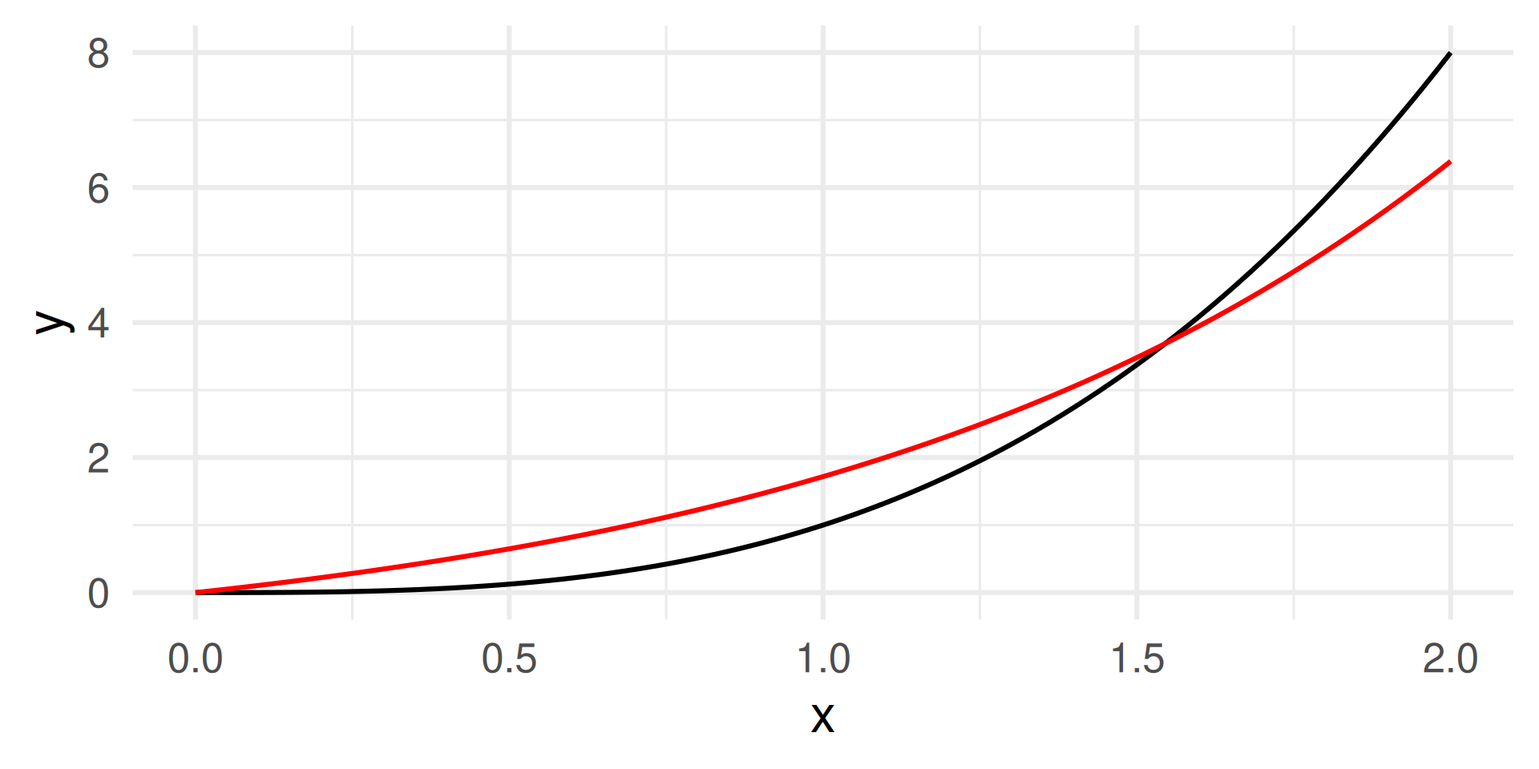
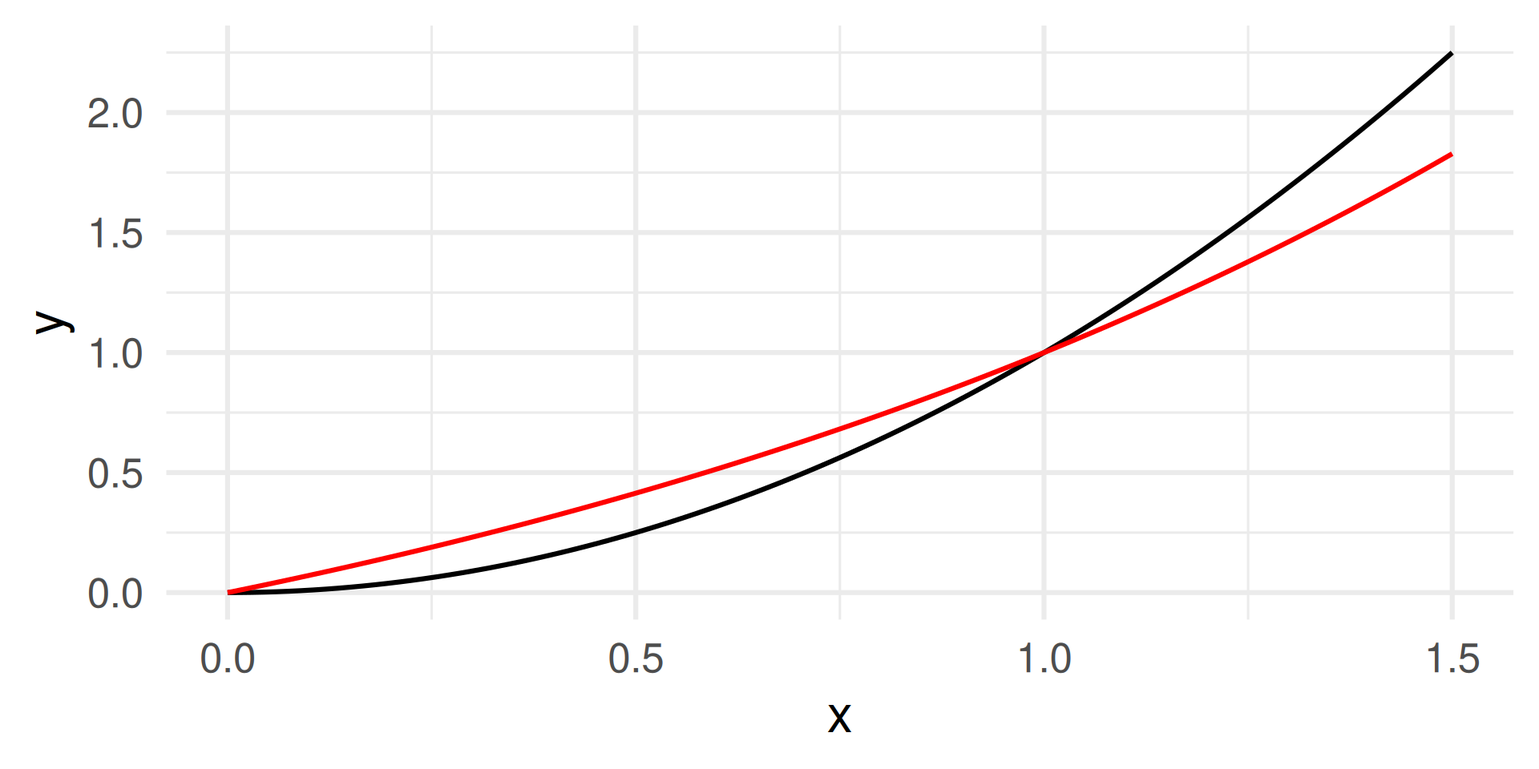
Built site for gh-pages

diff --git a/lectures/W03.html b/lectures/W03.html
@@ -489,7 +489,7 @@
   };
 
   // Store cell data
-  globalThis.qwebrCellDetails = [{"code":"","id":1,"options":{"autorun":"false","classes":"","comment":"","context":"interactive","dpi":72,"editor-font-scale":"0.5","editor-max-height":"","editor-quick-suggestions":"false","editor-word-wrap":"true","fig-cap":"","fig-height":5,"fig-width":7,"label":"unnamed-chunk-1","message":"true","out-height":"","out-width":"700px","output":"true","read-only":"false","results":"markup","warning":"true"}}];
+  globalThis.qwebrCellDetails = [{"code":"","id":1,"options":{"autorun":"false","classes":"","comment":"","context":"interactive","dpi":72,"editor-font-scale":"0.5","editor-max-height":"","editor-quick-suggestions":"false","editor-word-wrap":"true","fig-cap":"","fig-height":5,"fig-width":7,"label":"unnamed-chunk-1","message":"true","out-height":"","out-width":"700px","output":"true","read-only":"false","results":"markup","warning":"true"}},{"code":"Sys.Date() - as.Date(\"1997-01-01\")","id":2,"options":{"autorun":"false","classes":"","comment":"","context":"interactive","dpi":72,"editor-font-scale":"0.5","editor-max-height":"","editor-quick-suggestions":"false","editor-word-wrap":"true","fig-cap":"","fig-height":5,"fig-width":7,"label":"unnamed-chunk-2","message":"true","out-height":"","out-width":"700px","output":"true","read-only":"false","results":"markup","warning":"true"}}];
 
   </script>
   <script type="module">
@@ -2323,9 +2323,11 @@ date  (1): reservation_status_date
 <li>Observations: Each row represents a hotel booking</li>
 </ul>
 </section>
-<section id="first-look-on-data" class="slide level2">
+<section id="first-look-on-data" class="slide level2 smaller">
 <h2>First look on data</h2>
 <p>Type the name of the dataframe</p>
+<div class="columns">
+<div class="column" style="width:70%;">
 <div class="cell">
 <div class="sourceCode cell-code" id="cb7"><pre class="sourceCode numberSource r number-lines code-with-copy"><code class="sourceCode r"><span id="cb7-1"><a></a>hotels</span></code><button title="Copy to Clipboard" class="code-copy-button"><i class="bi"></i></button></pre></div>
 <div class="cell-output cell-output-stdout">
@@ -2351,8 +2353,15 @@ date  (1): reservation_status_date
 #   previous_cancellations &lt;int&gt;, previous_bookings_not_canceled &lt;int&gt;, …</code></pre>
 </div>
 </div>
+</div><div class="column fragment" style="width:30%;">
+<ul>
+<li>Look are the number of rows and columns</li>
+<li>Look at the column names, types, and first entries for the first columns</li>
+<li>Notice how many more columns are there and decide what to look for next</li>
+</ul>
+</div></div>
 </section>
-<section id="look-on-variable-names" class="slide level2">
+<section id="look-on-variable-names" class="slide level2 smaller">
 <h2>Look on variable names</h2>
 <div class="cell">
 <div class="sourceCode cell-code" id="cb9"><pre class="sourceCode numberSource r number-lines code-with-copy"><code class="sourceCode r"><span id="cb9-1"><a></a><span class="fu">names</span>(hotels)</span></code><button title="Copy to Clipboard" class="code-copy-button"><i class="bi"></i></button></pre></div>
@@ -2375,6 +2384,7 @@ date  (1): reservation_status_date
 [31] "reservation_status"             "reservation_status_date"       </code></pre>
 </div>
 </div>
+<p>This gives you a vector of column names.</p>
 </section>
 <section id="second-look-with-glimpse" class="slide level2 smaller">
 <h2>Second look with <code>glimpse</code></h2>
@@ -2417,13 +2427,15 @@ $ reservation_status             &lt;chr&gt; "Check-Out", "Check-Out", "Check-Ou
 $ reservation_status_date        &lt;date&gt; 2015-07-01, 2015-07-01, 2015-07-02, 20…</code></pre>
 </div>
 </div>
-<p>Now, comes the data wrangling, transformation, …</p>
+<ul>
+<li>Showing you all variables listed including data type and the first entries.</li>
+</ul>
 </section></section>
 <section>
 <section id="data-wrangling" class="title-slide slide level1 center">
 <h1>Data Wrangling</h1>
 <p>Wrangling = Import + Tidy + Transform (first iteration)</p>
-<p><img data-src="img/data-science-explore.png" height="250"></p>
+<p><img data-src="img/data-science-wrangle.png" height="250"></p>
 </section>
 <section id="grammar-of-data-wrangling" class="slide level2 smaller">
 <h2>Grammar of Data Wrangling</h2>
@@ -3307,7 +3319,7 @@ delivers the same. (Spot the tiny difference!)</p>
 </div>
 </div>
 </section>
-<section id="reminder-indexing-and-vectorized-thinking" class="slide level2">
+<section id="reminder-indexing-and-vectorized-thinking" class="slide level2 smaller">
 <h2>Reminder: Indexing and vectorized thinking</h2>
 <div class="cell">
 <div class="sourceCode cell-code" id="cb83"><pre class="sourceCode numberSource r number-lines code-with-copy"><code class="sourceCode r"><span id="cb83-1"><a></a>x <span class="ot">&lt;-</span> <span class="fu">set_names</span>(<span class="dv">1</span><span class="sc">:</span><span class="dv">10</span>, LETTERS[<span class="dv">1</span><span class="sc">:</span><span class="dv">10</span>])</span>
@@ -3344,8 +3356,7 @@ delivers the same. (Spot the tiny difference!)</p>
 </div>
 <div class="fragment">
 <p>Mixing negative and positive numbers does not work!</p>
-<pre><code>R
-x[c(-3, 1)] # Will throw an error</code></pre>
+<div class="sourceCode" id="cb89"><pre class="sourceCode numberSource r number-lines code-with-copy"><code class="sourceCode r"><span id="cb89-1"><a></a>x[<span class="fu">c</span>(<span class="sc">-</span><span class="dv">3</span>, <span class="dv">1</span>)] <span class="co"># Will throw an error</span></span></code><button title="Copy to Clipboard" class="code-copy-button"><i class="bi"></i></button></pre></div>
 </div>
 </section>
 <section id="r-objects-can-have-attributes" class="slide level2 smaller">
@@ -3540,7 +3551,7 @@ $names
 </section>
 <section id="factors" class="slide level2 smaller">
 <h2>Factors</h2>
-<p>R uses factors to handle categorical variables, variables that have a fixed and known set of possible values</p>
+<p>R uses factors to handle <strong>categorical</strong> variables</p>
 <div class="cell">
 <div class="sourceCode cell-code" id="cb98"><pre class="sourceCode numberSource r number-lines code-with-copy"><code class="sourceCode r"><span id="cb98-1"><a></a>x <span class="ot">&lt;-</span> <span class="fu">factor</span>(<span class="fu">c</span>(<span class="st">"BS"</span>, <span class="st">"MS"</span>, <span class="st">"PhD"</span>, <span class="st">"MS"</span>, <span class="st">"BS"</span>, <span class="st">"BS"</span>))</span>
 <span id="cb98-2"><a></a>x</span></code><button title="Copy to Clipboard" class="code-copy-button"><i class="bi"></i></button></pre></div>
@@ -3573,7 +3584,7 @@ $class
 </div>
 </div>
 <div class="fragment">
-<p>The class factor makes R print the level of each element of the vector instead of the underlying integer.</p>
+<p>The <code>$class</code> <code>"factor"</code> makes R print the level of each element of the vector instead of the underlying integer!</p>
 </div>
 </section>
 <section id="factors-for-data-visualization" class="slide level2 smaller">
@@ -3642,14 +3653,14 @@ $class
 <div class="columns">
 <div class="column" style="width:60%;">
 <ul>
-<li>ISO 8601 standard for dates: <strong>YYYY-MM-DD</strong>. Today: 2025-09-22.</li>
+<li>ISO 8601 standard for dates: <strong>YYYY-MM-DD</strong>.</li>
 <li>Dates in R are numeric vectors that represent the number of days since 1 January 1970.</li>
 </ul>
 <div class="cell">
-<div class="sourceCode cell-code" id="cb110"><pre class="sourceCode numberSource r number-lines code-with-copy"><code class="sourceCode r"><span id="cb110-1"><a></a>y <span class="ot">&lt;-</span> <span class="fu">as.Date</span>(<span class="st">"2020-01-01"</span>)</span>
+<div class="sourceCode cell-code" id="cb110"><pre class="sourceCode numberSource r number-lines code-with-copy"><code class="sourceCode r"><span id="cb110-1"><a></a>y <span class="ot">&lt;-</span> <span class="fu">as.Date</span>(<span class="st">"2025-01-01"</span>)</span>
 <span id="cb110-2"><a></a>y</span></code><button title="Copy to Clipboard" class="code-copy-button"><i class="bi"></i></button></pre></div>
 <div class="cell-output cell-output-stdout">
-<pre><code>[1] "2020-01-01"</code></pre>
+<pre><code>[1] "2025-01-01"</code></pre>
 </div>
 <div class="sourceCode cell-code" id="cb112"><pre class="sourceCode numberSource r number-lines code-with-copy"><code class="sourceCode r"><span id="cb112-1"><a></a><span class="fu">typeof</span>(y)</span></code><button title="Copy to Clipboard" class="code-copy-button"><i class="bi"></i></button></pre></div>
 <div class="cell-output cell-output-stdout">
@@ -3662,7 +3673,7 @@ $class
 </div>
 <div class="sourceCode cell-code" id="cb116"><pre class="sourceCode numberSource r number-lines code-with-copy"><code class="sourceCode r"><span id="cb116-1"><a></a><span class="fu">as.double</span>(y)</span></code><button title="Copy to Clipboard" class="code-copy-button"><i class="bi"></i></button></pre></div>
 <div class="cell-output cell-output-stdout">
-<pre><code>[1] 18262</code></pre>
+<pre><code>[1] 20089</code></pre>
 </div>
 <div class="sourceCode cell-code" id="cb118"><pre class="sourceCode numberSource r number-lines code-with-copy"><code class="sourceCode r"><span id="cb118-1"><a></a><span class="fu">as.double</span>(<span class="fu">as.Date</span>(<span class="st">"1970-01-01"</span>))</span></code><button title="Copy to Clipboard" class="code-copy-button"><i class="bi"></i></button></pre></div>
 <div class="cell-output cell-output-stdout">
@@ -3674,9 +3685,10 @@ $class
 </div>
 </div>
 </div><div class="column" style="width:40%;">
-<p><img data-src="https://social-coop-media.ams3.cdn.digitaloceanspaces.com/media_attachments/files/110/509/555/396/284/468/original/760b0480d20ee7d9.jpeg"></p>
-<p><a href="https://social.coop/@mattl/110509557203534941" class="uri">https://social.coop/@mattl/110509557203534941</a></p>
+<p><img data-src="img/perfect_date.jpg"></p>
+<p>Sources Cartoons: <a href="https://www.reddit.com/r/puns/comments/83e7xi/whats_your_idea_of_a_perfect_date/">Reddit</a> <a href="https://xkcd.com/1179/">xkcd</a></p>
 </div></div>
+<p><img data-src="https://imgs.xkcd.com/comics/iso_8601_2x.png" class="absolute fragment" style="bottom: 110px; right: 130px; width: 500px; "></p>
 </section>
 <section id="how-many-days-are-you-old" class="slide level2">
 <h2>How many days are you old?</h2>
@@ -3684,24 +3696,27 @@ $class
 <div class="cell">
 <div class="sourceCode cell-code" id="cb122"><pre class="sourceCode numberSource r number-lines code-with-copy"><code class="sourceCode r"><span id="cb122-1"><a></a><span class="fu">Sys.Date</span>() <span class="sc">-</span> <span class="fu">as.Date</span>(<span class="st">"1976-01-16"</span>)</span></code><button title="Copy to Clipboard" class="code-copy-button"><i class="bi"></i></button></pre></div>
 <div class="cell-output cell-output-stdout">
-<pre><code>Time difference of 18147 days</code></pre>
+<pre><code>Time difference of 18154 days</code></pre>
 </div>
-<div class="sourceCode cell-code" id="cb124"><pre class="sourceCode numberSource r number-lines code-with-copy"><code class="sourceCode r"><span id="cb124-1"><a></a><span class="co"># Sys.Date() gives as the current day your computer is set to</span></span></code><button title="Copy to Clipboard" class="code-copy-button"><i class="bi"></i></button></pre></div>
 </div>
+<p><code>Sys.Date()</code> gives the current day your computer is set to</p>
+<p>Test yours and don’t miss your 10.000th day on earth (if you are under 27 years old now)!</p>
+<div id="qwebr-insertion-location-2"></div>
+<noscript>Please enable JavaScript to experience the dynamic code cell content on this page.</noscript>
 </div>
 </section>
 <section id="date-times" class="slide level2 smaller">
 <h2>Date-times</h2>
 <p>For date-time manipulation use <a href="https://lubridate.tidyverse.org/"><code>lubridate</code></a> form the tidyverse.</p>
 <div class="cell">
-<div class="sourceCode cell-code" id="cb125"><pre class="sourceCode numberSource r number-lines code-with-copy"><code class="sourceCode r"><span id="cb125-1"><a></a>x <span class="ot">&lt;-</span> lubridate<span class="sc">::</span><span class="fu">ymd_hm</span>(<span class="st">"1970-01-01 01:00"</span>)</span>
-<span id="cb125-2"><a></a><span class="co"># Note: Instead of loading package `pack` to use its function `func` you can also write `pack::func`</span></span>
-<span id="cb125-3"><a></a><span class="co"># This works when the package is installed even when not loaded.</span></span>
-<span id="cb125-4"><a></a>x</span></code><button title="Copy to Clipboard" class="code-copy-button"><i class="bi"></i></button></pre></div>
+<div class="sourceCode cell-code" id="cb124"><pre class="sourceCode numberSource r number-lines code-with-copy"><code class="sourceCode r"><span id="cb124-1"><a></a>x <span class="ot">&lt;-</span> lubridate<span class="sc">::</span><span class="fu">ymd_hm</span>(<span class="st">"1970-01-01 01:00"</span>)</span>
+<span id="cb124-2"><a></a><span class="co"># Note: Instead of loading package `pack` to use its function `func` you can also write `pack::func`</span></span>
+<span id="cb124-3"><a></a><span class="co"># This works when the package is installed even when not loaded.</span></span>
+<span id="cb124-4"><a></a>x</span></code><button title="Copy to Clipboard" class="code-copy-button"><i class="bi"></i></button></pre></div>
 <div class="cell-output cell-output-stdout">
 <pre><code>[1] "1970-01-01 01:00:00 UTC"</code></pre>
 </div>
-<div class="sourceCode cell-code" id="cb127"><pre class="sourceCode numberSource r number-lines code-with-copy"><code class="sourceCode r"><span id="cb127-1"><a></a><span class="fu">attributes</span>(x)</span></code><button title="Copy to Clipboard" class="code-copy-button"><i class="bi"></i></button></pre></div>
+<div class="sourceCode cell-code" id="cb126"><pre class="sourceCode numberSource r number-lines code-with-copy"><code class="sourceCode r"><span id="cb126-1"><a></a><span class="fu">attributes</span>(x)</span></code><button title="Copy to Clipboard" class="code-copy-button"><i class="bi"></i></button></pre></div>
 <div class="cell-output cell-output-stdout">
 <pre><code>$class
 [1] "POSIXct" "POSIXt" 
@@ -3709,7 +3724,7 @@ $class
 $tzone
 [1] "UTC"</code></pre>
 </div>
-<div class="sourceCode cell-code" id="cb129"><pre class="sourceCode numberSource r number-lines code-with-copy"><code class="sourceCode r"><span id="cb129-1"><a></a><span class="fu">as.double</span>(x)</span></code><button title="Copy to Clipboard" class="code-copy-button"><i class="bi"></i></button></pre></div>
+<div class="sourceCode cell-code" id="cb128"><pre class="sourceCode numberSource r number-lines code-with-copy"><code class="sourceCode r"><span id="cb128-1"><a></a><span class="fu">as.double</span>(x)</span></code><button title="Copy to Clipboard" class="code-copy-button"><i class="bi"></i></button></pre></div>
 <div class="cell-output cell-output-stdout">
 <pre><code>[1] 3600</code></pre>
 </div>
@@ -3720,10 +3735,10 @@ POSIXct: Portable Operating System Interface, calendar time. Stores date and tim
 <section id="how-many-seconds-are-you-old" class="slide level2">
 <h2>How many seconds are you old?</h2>
 <div class="cell">
-<div class="sourceCode cell-code" id="cb131"><pre class="sourceCode numberSource r number-lines code-with-copy"><code class="sourceCode r"><span id="cb131-1"><a></a><span class="fu">as.double</span>(lubridate<span class="sc">::</span><span class="fu">now</span>()) <span class="sc">-</span></span>
-<span id="cb131-2"><a></a>  <span class="fu">as.double</span>(lubridate<span class="sc">::</span><span class="fu">ymd_hm</span>(<span class="st">"1976-01-16_12:04"</span>))</span></code><button title="Copy to Clipboard" class="code-copy-button"><i class="bi"></i></button></pre></div>
+<div class="sourceCode cell-code" id="cb130"><pre class="sourceCode numberSource r number-lines code-with-copy"><code class="sourceCode r"><span id="cb130-1"><a></a><span class="fu">as.double</span>(lubridate<span class="sc">::</span><span class="fu">now</span>()) <span class="sc">-</span></span>
+<span id="cb130-2"><a></a>  <span class="fu">as.double</span>(lubridate<span class="sc">::</span><span class="fu">ymd_hm</span>(<span class="st">"1976-01-16_12:04"</span>))</span></code><button title="Copy to Clipboard" class="code-copy-button"><i class="bi"></i></button></pre></div>
 <div class="cell-output cell-output-stdout">
-<pre><code>[1] 1567851140</code></pre>
+<pre><code>[1] 1568513187</code></pre>
 </div>
 </div>
 </section>

diff --git a/lectures/W04.html b/lectures/W04.html
@@ -2571,11 +2571,11 @@ NULL
 <h2>Joining dataframes</h2>
 <p><code>something_join(x, y)</code><sup>1</sup> for dataframes <code>x</code> and <code>y</code> which have a <em>relation</em></p>
 <ul>
-<li><code>left_join()</code>: all rows from x</li>
-<li><code>right_join()</code>: all rows from y</li>
-<li><code>full_join()</code>: all rows from both x and y</li>
-<li><code>inner_join()</code>: all rows from x where there are matching values in y, return all combination of multiple matches in the case of multiple matches</li>
-<li>…</li>
+<li><code>left_join()</code>: all rows from x must remain</li>
+<li><code>right_join()</code>: all rows from y must remain</li>
+<li><code>full_join()</code>: all rows from both x and y must remain</li>
+<li><code>inner_join()</code>: all rows from x where there are matching values in y remain</li>
+<li>… (more exist see <a href="https://rstudio.github.io/cheatsheets/data-transformation.pdf"><code>dplyr</code> cheatsheet</a>)</li>
 </ul>
 <aside><ol class="aside-footnotes"><li id="fn1"><p>The notion <em>join</em> comes from SQL database. In other data manipulation frameworks joining is called <em>merging</em>.</p></li></ol></aside></section>
 <section id="simple-setup-for-x-and-y" class="slide level2 smaller">
@@ -2796,8 +2796,8 @@ NULL
 <li>What was the key in the dataframe of women in science? <span class="fragment"><code>name</code></span></li>
 </ul>
 <div class="fragment">
+<p>Switching back to <code>nycflights13</code> as example</p>
 <ul>
-<li>Switching back to <code>nycflights13</code> as example</li>
 <li>In simple cases, a single variable is sufficient to identify an observation, e.g.&nbsp;each plane in <code>planes</code> is identified by <code>tailnum</code>.</li>
 <li>Sometimes, multiple variables are needed; e.g.&nbsp;to identify an observation in <code>weather</code> you need five variables: <code>year</code>, <code>month</code>, <code>day</code>, <code>hour</code>, and <code>origin</code></li>
 </ul>
@@ -2848,13 +2848,18 @@ NULL
 <p>Why do we have only 22 and 23 on day 1 of month 1? No idea. Dig deeper yourself!</p>
 </div>
 </section>
-<section id="terminology-primary-and-foreign-keys" class="slide level2 smaller">
-<h2>Terminology: Primary and foreign keys</h2>
+<section id="primary-and-foreign-keys" class="slide level2 smaller">
+<h2>Primary and foreign keys</h2>
 <ul>
 <li><p>A <strong>primary key</strong> uniquely identifies an observation in its own table. E.g, <code>planes$tailnum</code> in <code>planes</code>.</p></li>
 <li><p>A <strong>foreign key</strong> uniquely identifies an observation in another dataframe E.g. <code>flights$tailnum</code> is a foreign key in <code>flights</code> because it matches each flight to a unique plane in <code>planes</code>.</p></li>
-<li><p>A primary key and a foreign key form a relation.</p></li>
-<li><p>Relations are typically 1-to-many. Each plane has many flights</p></li>
+<li><p>A primary key and a foreign key form a relation.</p>
+<ul>
+<li>Often a <em>1-to-many</em> relation. Each plane has many flights.
+<ul>
+<li>Implication: Joining <code>flights</code> with <code>planes</code> duplicates the rows of <code>planes</code> for each flight of that plane.</li>
+</ul></li>
+</ul></li>
 <li><p>Relations can also be many-to-many. Airlines can fly to many airports; airport can host many airplanes.</p></li>
 </ul>
 </section>
@@ -3154,6 +3159,7 @@ these are <code>origin</code> airports in <code>flights</code></li>
 <pre><code>[1] 1 2</code></pre>
 </div>
 </div>
+<p>Relations to <code>joins</code>: <code>full_join()</code> is like the <em>union</em>, <code>inner_join()</code> is like the <em>intersection</em>.</p>
 </div>
 </section>
 <section id="sets-take-away" class="slide level2">
@@ -3466,16 +3472,16 @@ You can think of the <em>coordinate system being stretched</em> multiplicatively
 <section id="math-polynomials-and-exponentials" class="slide level2 smaller" data-background-color="aquamarine">
 <h2>Math: Polynomials and exponentials</h2>
 <p>A <em>polynomial</em> is a function which is composed of (many) addends of the form <span class="math inline">\(ax^n\)</span> for different values of <span class="math inline">\(a\)</span> and <span class="math inline">\(n\)</span>.</p>
-<p>In an <em>exponential</em> the <span class="math inline">\(x\)</span> appears in the exponent. <span class="math inline">\(f(x) = x^3\)</span> vs.&nbsp;<span style="color:red;"><span class="math inline">\(f(x) = e^x\)</span></span></p>
+<p>In an <em>exponential</em> the <span class="math inline">\(x\)</span> appears in the exponent. <span class="math inline">\(f(x) = x^2\)</span> vs.&nbsp;<span style="color:red;"><span class="math inline">\(f(x) = 2^x\)</span></span></p>
 <div class="columns">
 <div class="column">
 <div class="cell">
 <details class="code-fold">
 <summary>Code</summary>
 <div class="sourceCode cell-code" id="cb146"><pre class="sourceCode numberSource r number-lines code-with-copy"><code class="sourceCode r"><span id="cb146-1"><a></a><span class="fu">ggplot</span>() <span class="sc">+</span></span>
-<span id="cb146-2"><a></a>  <span class="fu">geom_function</span>(<span class="at">fun =</span> <span class="cf">function</span>(x) x<span class="sc">^</span><span class="dv">3</span>) <span class="sc">+</span></span>
-<span id="cb146-3"><a></a>  <span class="fu">geom_function</span>(<span class="at">fun =</span> <span class="cf">function</span>(x) <span class="fu">exp</span>(x) <span class="sc">-</span> <span class="dv">1</span>, <span class="at">color =</span> <span class="st">"red"</span>) <span class="sc">+</span></span>
-<span id="cb146-4"><a></a>  <span class="fu">xlim</span>(<span class="fu">c</span>(<span class="dv">0</span>, <span class="dv">2</span>)) <span class="sc">+</span></span>
+<span id="cb146-2"><a></a>  <span class="fu">geom_function</span>(<span class="at">fun =</span> <span class="cf">function</span>(x) x<span class="sc">^</span><span class="dv">2</span>) <span class="sc">+</span></span>
+<span id="cb146-3"><a></a>  <span class="fu">geom_function</span>(<span class="at">fun =</span> <span class="cf">function</span>(x) <span class="dv">2</span><span class="sc">^</span>x <span class="sc">-</span> <span class="dv">1</span>, <span class="at">color =</span> <span class="st">"red"</span>) <span class="sc">+</span></span>
+<span id="cb146-4"><a></a>  <span class="fu">xlim</span>(<span class="fu">c</span>(<span class="dv">0</span>, <span class="fl">1.5</span>)) <span class="sc">+</span></span>
 <span id="cb146-5"><a></a>  <span class="fu">xlab</span>(<span class="st">"x"</span>) <span class="sc">+</span></span>
 <span id="cb146-6"><a></a>  <span class="fu">theme_minimal</span>(<span class="at">base_size =</span> <span class="dv">24</span>)</span></code><button title="Copy to Clipboard" class="code-copy-button"><i class="bi"></i></button></pre></div>
 </details>
@@ -3487,14 +3493,15 @@ You can think of the <em>coordinate system being stretched</em> multiplicatively
 </div>
 </div>
 </div>
+<p><span style="font-size: 65%;">Note: We use <span style="color:red;"><span class="math inline">\(f(x) = 2^x - 1\)</span></span> to have both functions start at (0,0).</span></p>
 </div><div class="column fragment">
 <p>Same graph but for a larger range of <span class="math inline">\(x\)</span>:</p>
 <div class="cell">
 <details class="code-fold">
 <summary>Code</summary>
 <div class="sourceCode cell-code" id="cb147"><pre class="sourceCode numberSource r number-lines code-with-copy"><code class="sourceCode r"><span id="cb147-1"><a></a><span class="fu">ggplot</span>() <span class="sc">+</span></span>
-<span id="cb147-2"><a></a>  <span class="fu">geom_function</span>(<span class="at">fun =</span> <span class="cf">function</span>(x) x<span class="sc">^</span><span class="dv">3</span>) <span class="sc">+</span></span>
-<span id="cb147-3"><a></a>  <span class="fu">geom_function</span>(<span class="at">fun =</span> <span class="cf">function</span>(x) <span class="fu">exp</span>(x) <span class="sc">-</span> <span class="dv">1</span>, <span class="at">color =</span> <span class="st">"red"</span>) <span class="sc">+</span></span>
+<span id="cb147-2"><a></a>  <span class="fu">geom_function</span>(<span class="at">fun =</span> <span class="cf">function</span>(x) x<span class="sc">^</span><span class="dv">2</span>) <span class="sc">+</span></span>
+<span id="cb147-3"><a></a>  <span class="fu">geom_function</span>(<span class="at">fun =</span> <span class="cf">function</span>(x) <span class="dv">2</span><span class="sc">^</span>x <span class="sc">-</span> <span class="dv">1</span>, <span class="at">color =</span> <span class="st">"red"</span>) <span class="sc">+</span></span>
 <span id="cb147-4"><a></a>  <span class="fu">xlim</span>(<span class="fu">c</span>(<span class="dv">0</span>, <span class="dv">5</span>)) <span class="sc">+</span></span>
 <span id="cb147-5"><a></a>  <span class="fu">xlab</span>(<span class="st">"x"</span>) <span class="sc">+</span></span>
 <span id="cb147-6"><a></a>  <span class="fu">theme_minimal</span>(<span class="at">base_size =</span> <span class="dv">24</span>)</span></code><button title="Copy to Clipboard" class="code-copy-button"><i class="bi"></i></button></pre></div>
@@ -3552,7 +3559,7 @@ You can think of the <em>coordinate system being stretched</em> multiplicatively
 <pre><code>function (x, na.rm = FALSE) 
 sqrt(var(if (is.vector(x) || is.factor(x)) x else as.double(x), 
     na.rm = na.rm))
-&lt;bytecode: 0x62012f24c958&gt;
+&lt;bytecode: 0x5b1458f76288&gt;
 &lt;environment: namespace:stats&gt;</code></pre>
 </div>
 <div class="sourceCode cell-code" id="cb154"><pre class="sourceCode numberSource r number-lines code-with-copy"><code class="sourceCode r"><span id="cb154-1"><a></a>c <span class="co"># This function is not written in R but is a R primitive</span></span></code><button title="Copy to Clipboard" class="code-copy-button"><i class="bi"></i></button></pre></div>
@@ -3565,7 +3572,7 @@ sqrt(var(if (is.vector(x) || is.factor(x)) x else as.double(x),
 {
     UseMethod("ggplot")
 }
-&lt;bytecode: 0x62012fd0c330&gt;
+&lt;bytecode: 0x5b1459a25790&gt;
 &lt;environment: namespace:ggplot2&gt;</code></pre>
 </div>
 </div>
